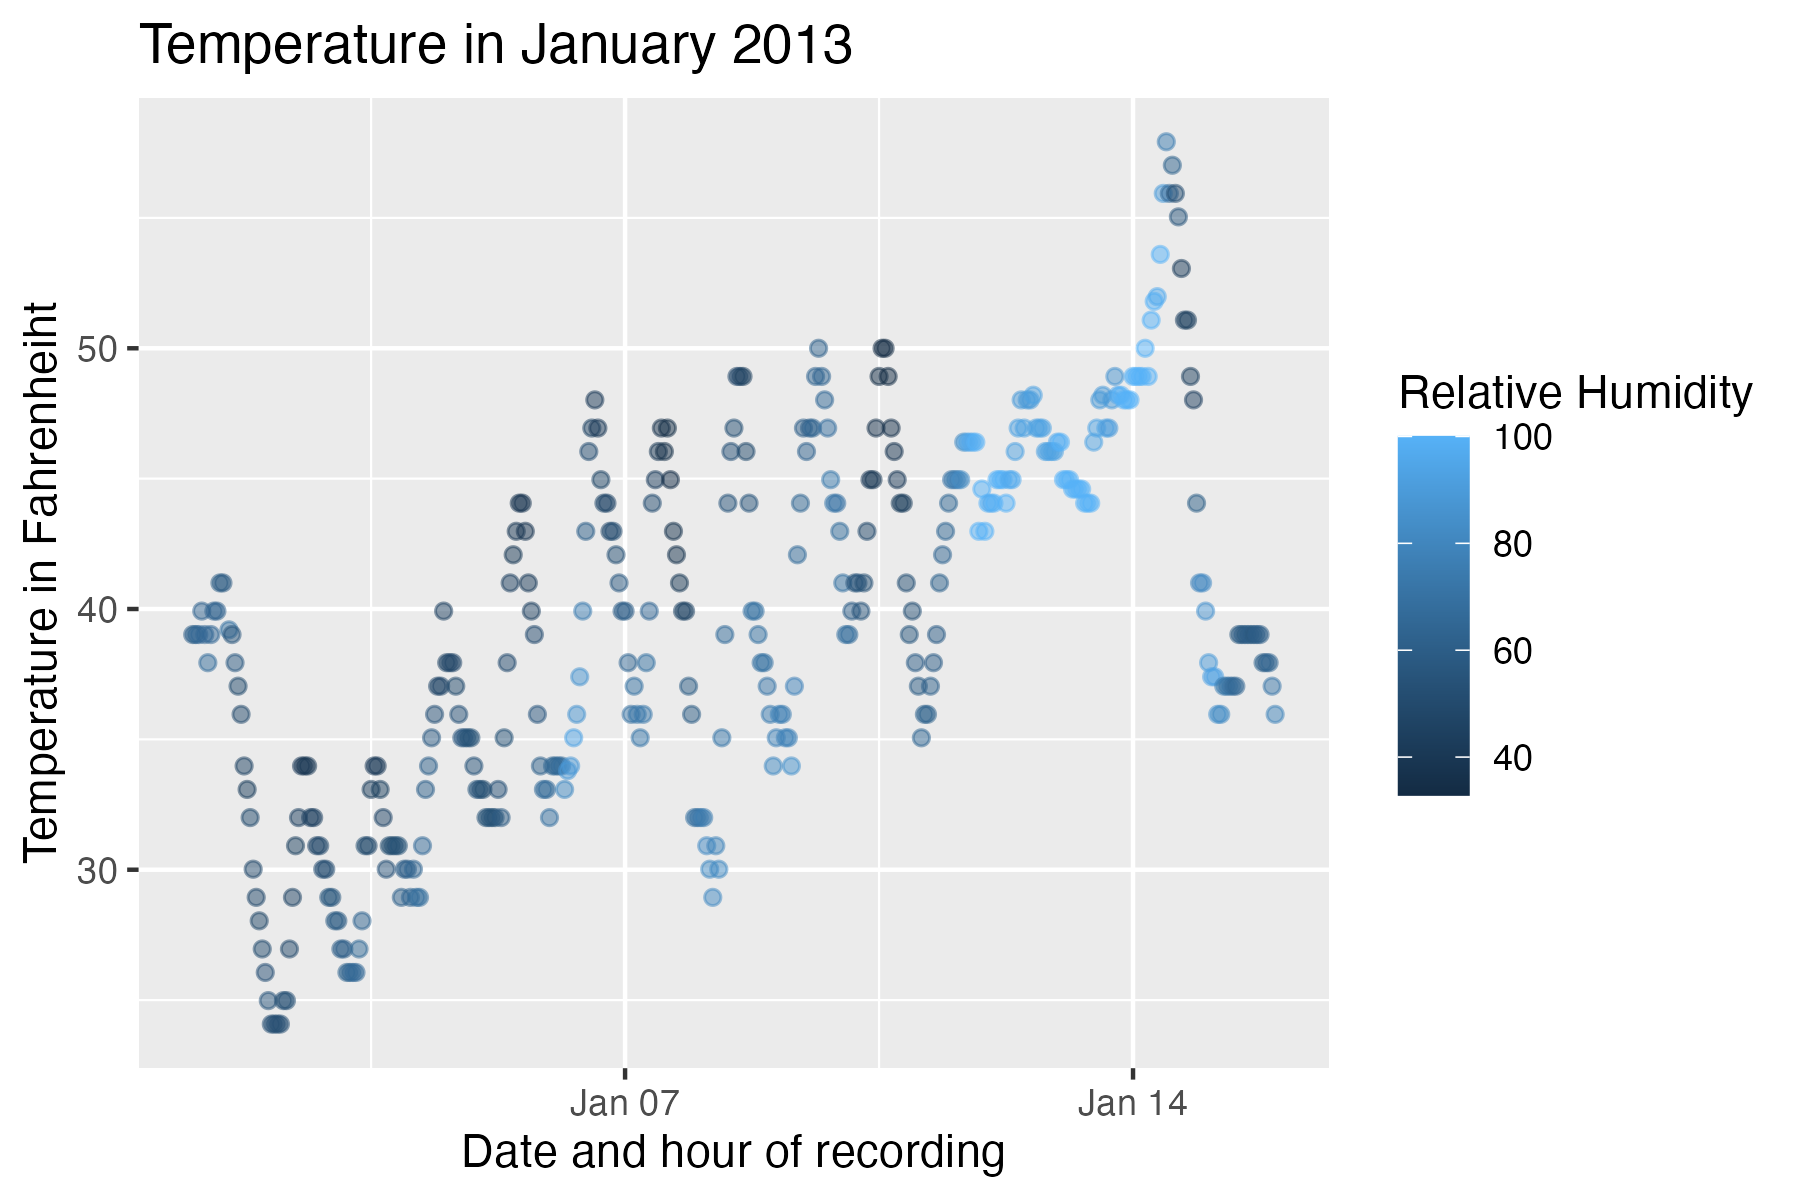
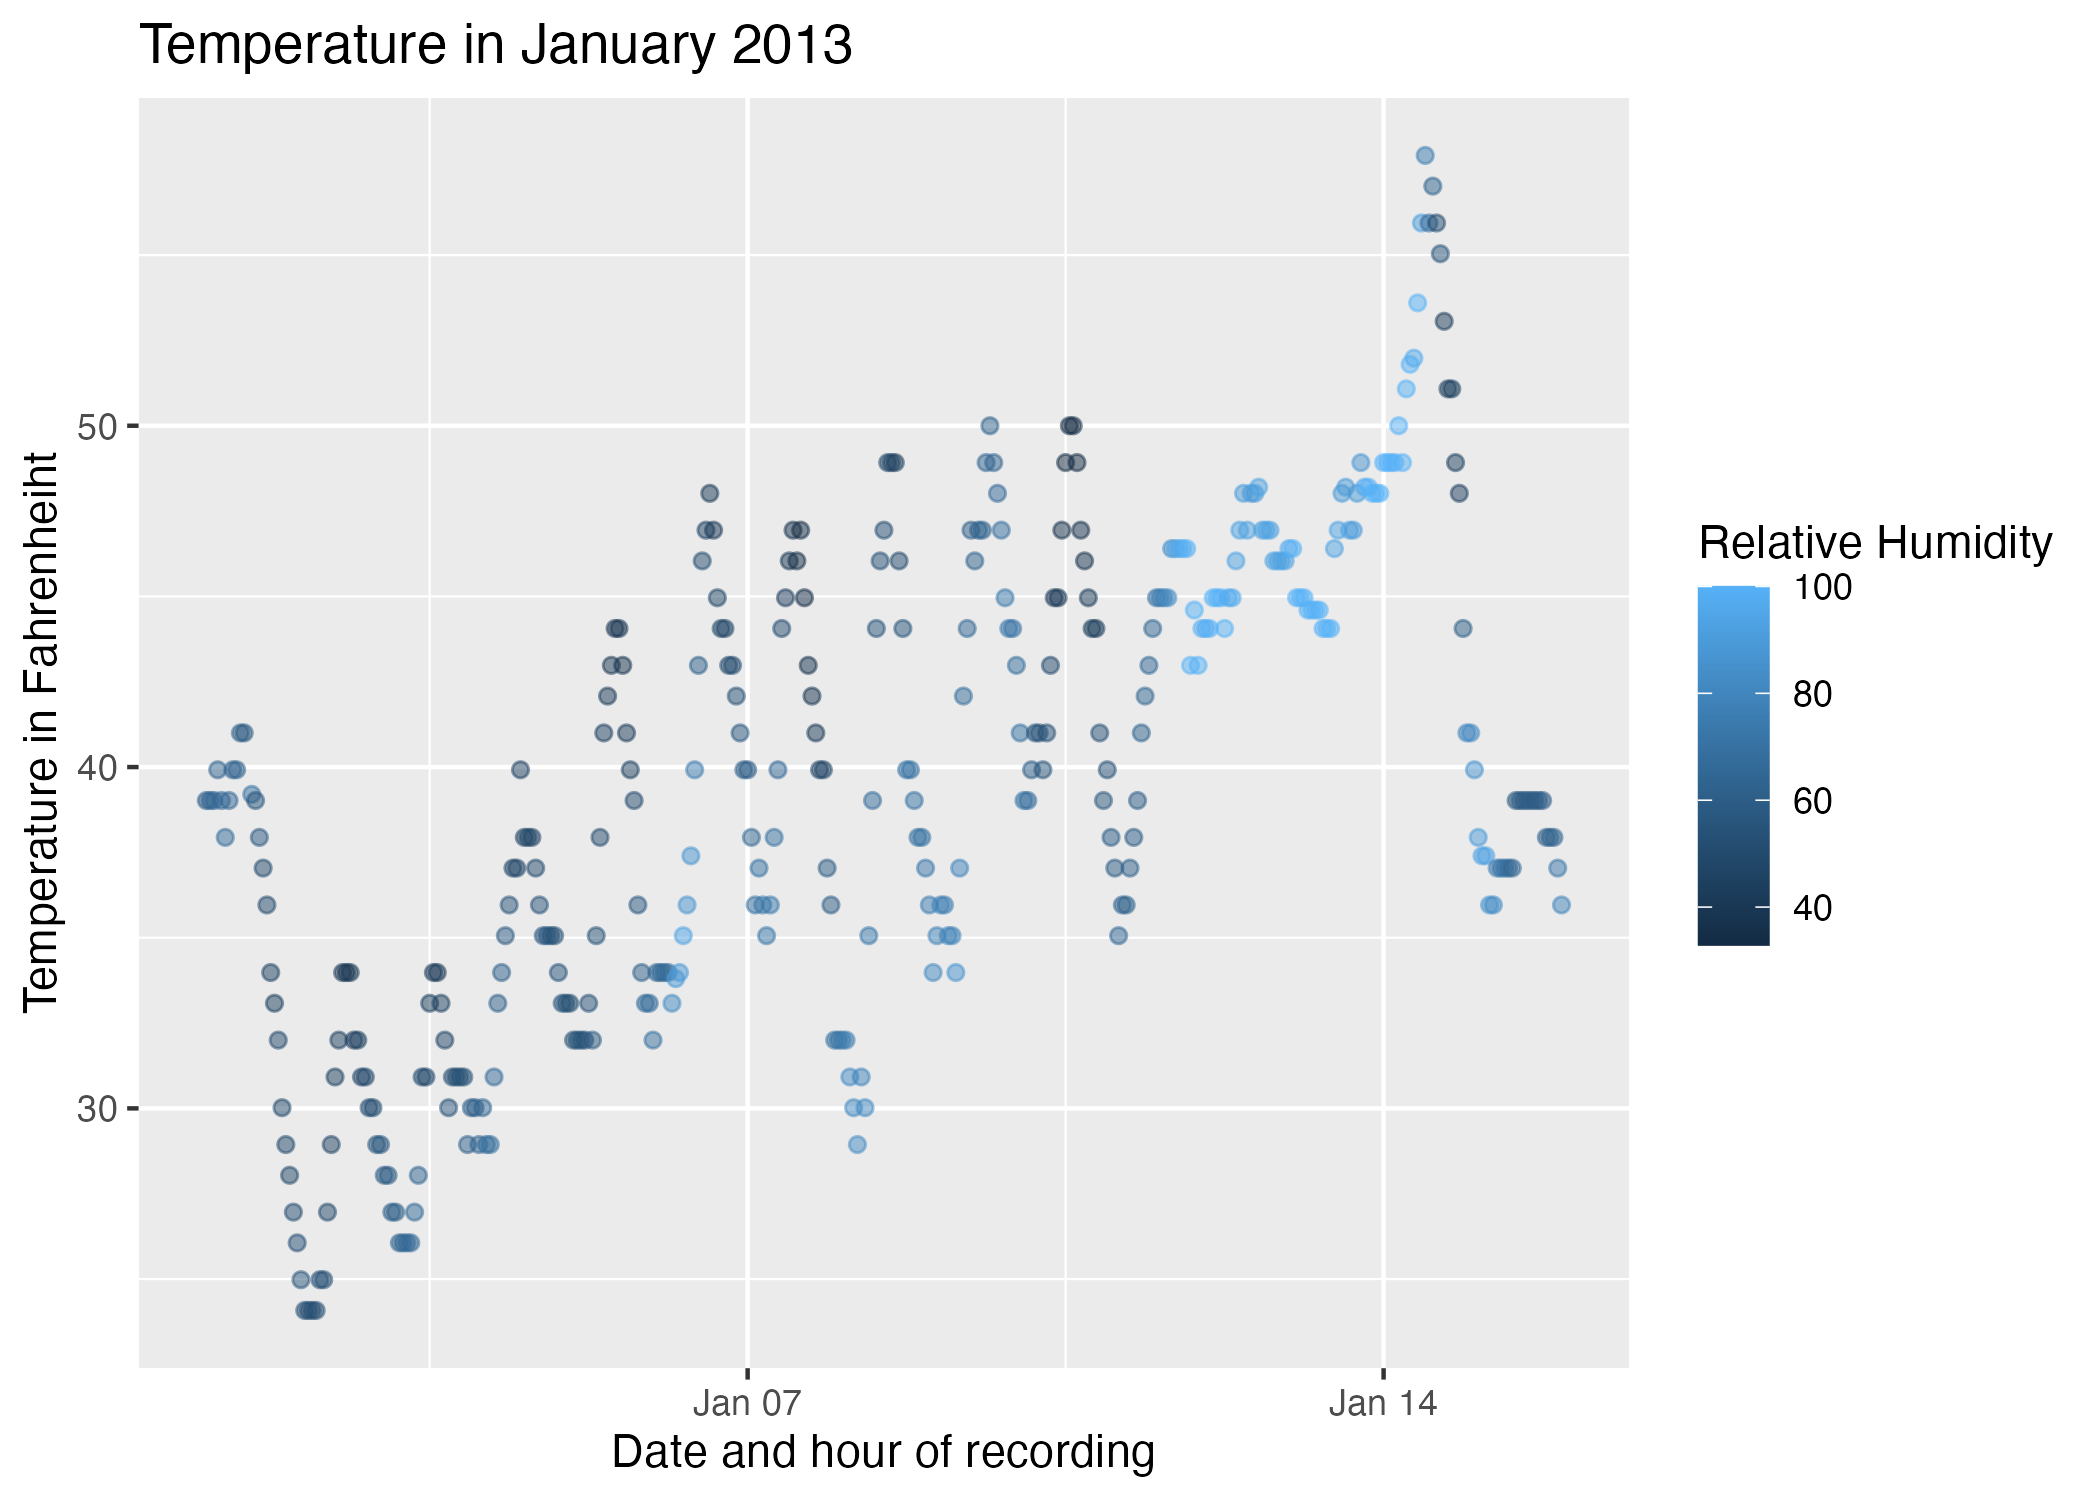
used pull function and added explanation for as.numeric commands

diff --git a/p8105_hw1_ars2376.html b/p8105_hw1_ars2376.html
@@ -407,8 +407,55 @@ temperatures increasing during the day then cooling down in the evening.
 Throughout the month, the average temperature is shown to be steadily
 increasing. Higher relative humidity is also associated with higher
 temperature.</p>
-<pre class="r"><code>ggsave(&quot;jan_weather_scatterplot.png&quot;, height = 4, width = 6)</code></pre>
+<pre class="r"><code>ggsave(&quot;jan_weather_scatterplot.png&quot;, height = 5, width = 7)</code></pre>
 <p><strong>Problem 2</strong></p>
+<pre class="r"><code>weather_df = tibble(
+  x = rnorm(10),
+  log_vector = x &gt; 0,
+  char_vector = c(&quot;My&quot;, &quot;name&quot;, &quot;is&quot;, &quot;Amanda&quot;, &quot;and&quot;, &quot;I&quot;, &quot;am&quot;, &quot;enrolled&quot;, &quot;in&quot;, &quot;P8105&quot;),
+  factor_vector = factor(sample(c(&quot;a&quot;, &quot;b&quot;, &quot;c&quot;), 10, replace = TRUE))
+)</code></pre>
+<pre class="r"><code>weather_df %&gt;%
+  pull(x) %&gt;%
+  mean(na.rm=TRUE)</code></pre>
+<pre><code>## [1] 0.8448026</code></pre>
+<pre class="r"><code>weather_df %&gt;%
+  pull(log_vector) %&gt;%
+  mean(na.rm=TRUE)</code></pre>
+<pre><code>## [1] 0.8</code></pre>
+<pre class="r"><code>weather_df %&gt;%
+  pull(char_vector) %&gt;%
+  mean(na.rm=TRUE)</code></pre>
+<pre><code>## Warning in mean.default(., na.rm = TRUE): argument is not numeric or logical:
+## returning NA</code></pre>
+<pre><code>## [1] NA</code></pre>
+<pre class="r"><code>weather_df %&gt;%
+  pull(factor_vector) %&gt;%
+  mean(na.rm=TRUE)</code></pre>
+<pre><code>## Warning in mean.default(., na.rm = TRUE): argument is not numeric or logical:
+## returning NA</code></pre>
+<pre><code>## [1] NA</code></pre>
+<p>I am able to take the mean of the random sample <code>x</code> and
+logical vector <code>log_vector</code> but not of the character vector
+<code>char_vector</code> and factor vector <code>factor_vector</code>.
+This is due to <code>x</code> and <code>log_vector</code> being numeric
+variables while the other 2 are string variables, which we cannot take
+the mean of.</p>
+<pre class="r"><code>as.numeric(weather_df$log_vector)
+as.numeric(weather_df$char_vector)
+as.numeric(weather_df$factor_vector)</code></pre>
+<p>The <code>as.numeric</code> function changes the logical variable
+from <code>TRUE</code> to <code>1</code> and <code>FALSE</code> to
+<code>0</code> since coercion makes logical variables automatically
+become numeric. This explains why we were able to take the mean. For the
+character variable, values are all changed to <code>NA</code> and we get
+the warning <code>NAs introduced by coercion</code> since there are no
+meaningful numeric values, even after coercion. This explains why no
+mean could be taken. For the factor variable, <code>a</code> is changed
+to <code>1</code>, <code>b</code> is changed to <code>2</code>, and
+<code>c</code> is changed to <code>3</code>, their underlying integer
+codes. However, we were still unable to take the mean because the factor
+levels didn’t have numeric measures originally.</p>
 
 
 
